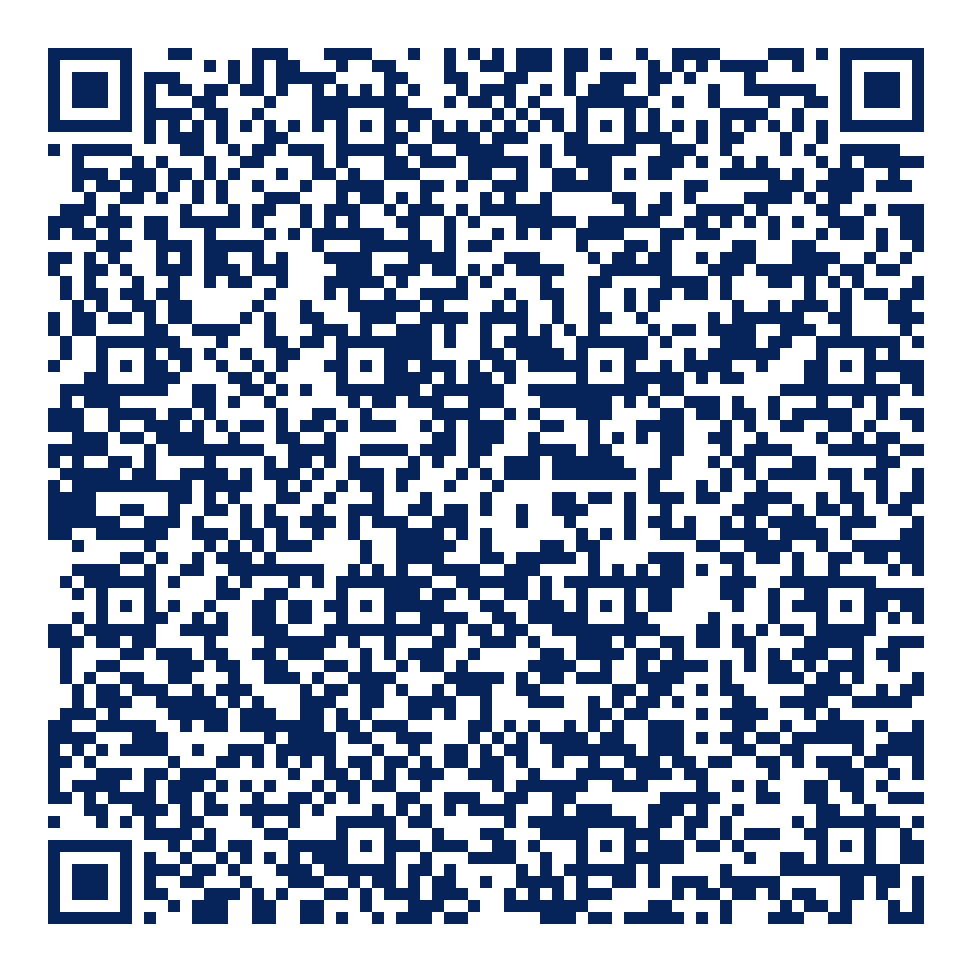
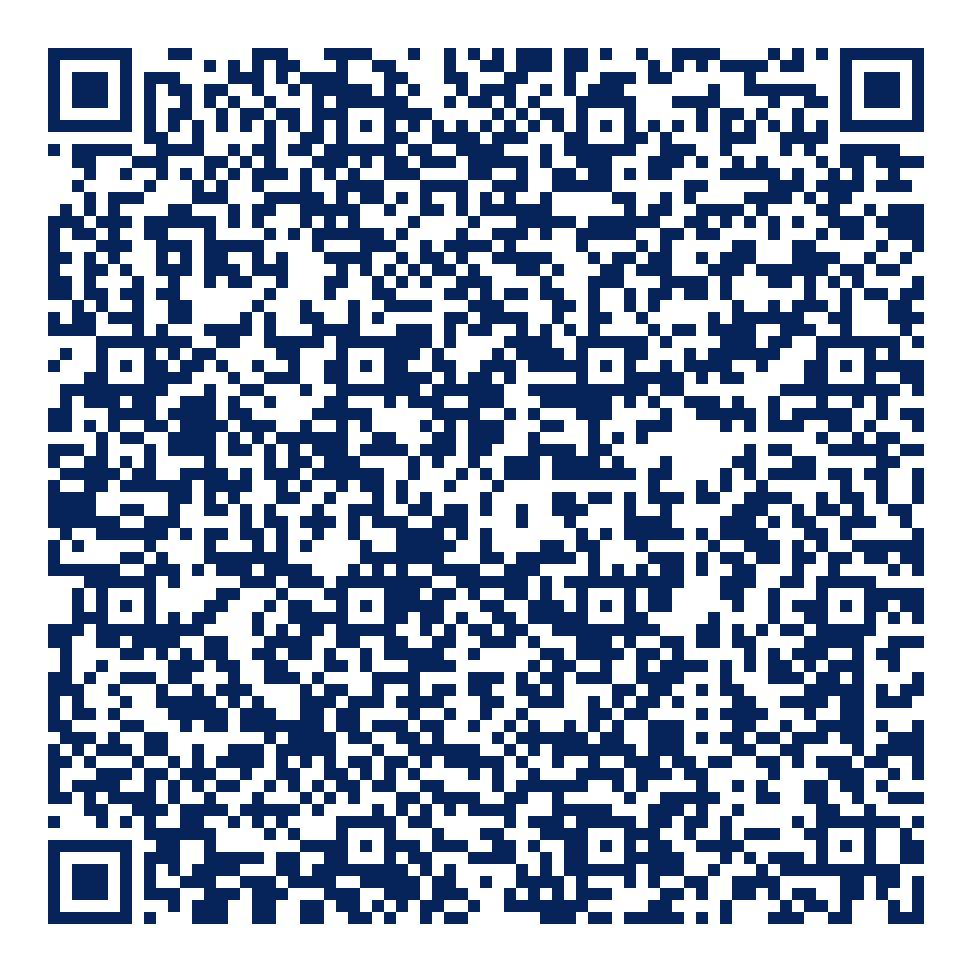
Move the business card location to Joplin, MO
Replace the card, contact file, and QR code with the Joplin versions.

diff --git a/index.html b/index.html
@@ -74,7 +74,7 @@ h1{font-size:28px;font-weight:800;letter-spacing:-.5px;color:var(--navy-dk)}
     <section class="id">
       <h1 itemprop="name">Nixon Brannan</h1>
       <div class="title" itemprop="jobTitle">Commercial Insurance Specialist</div>
-      <div class="org" itemprop="worksFor">Bull Insurance Agency · Lamar, MO</div>
+      <div class="org" itemprop="worksFor">Bull Insurance Agency · Joplin, MO</div>
     </section>
 
     <nav class="quick" aria-label="Quick actions">
@@ -83,7 +83,7 @@ h1{font-size:28px;font-weight:800;letter-spacing:-.5px;color:var(--navy-dk)}
       <a class="q" href="https://www.bullinsuranceagency.com" target="_blank" rel="noopener"><svg class="ic" viewBox="0 0 24 24" aria-hidden="true"><path d="M12 2a10 10 0 1 0 0 20 10 10 0 0 0 0-20zm6.9 6h-2.9a15.7 15.7 0 0 0-1.4-3.6A8 8 0 0 1 18.9 8zM12 4a14 14 0 0 1 1.9 4h-3.8A14 14 0 0 1 12 4zM4.3 14a8.2 8.2 0 0 1 0-4h3.4a16.5 16.5 0 0 0 0 4H4.3zm.8 2h2.9c.3 1.3.8 2.5 1.4 3.6A8 8 0 0 1 5.1 16zM8 8H5.1a8 8 0 0 1 4.3-3.6C8.8 5.5 8.3 6.7 8 8zm4 12a14 14 0 0 1-1.9-4h3.8A14 14 0 0 1 12 20zm2.3-6H9.7a14.7 14.7 0 0 1 0-4h4.6a14.7 14.7 0 0 1 0 4zm.3 5.6c.6-1.1 1.1-2.3 1.4-3.6h2.9a8 8 0 0 1-4.3 3.6zm1.7-5.6a16.5 16.5 0 0 0 0-4h3.4a8.2 8.2 0 0 1 0 4h-3.4z"/></svg>Website</a>
     </nav>
 
-    <a class="save" id="save" href="data:text/vcard;charset=utf-8,BEGIN%3AVCARD%0D%0AVERSION%3A3.0%0D%0AN%3ABrannan%3BNixon%3B%3B%3B%0D%0AFN%3ANixon%20Brannan%0D%0AORG%3ABull%20Insurance%20Agency%0D%0ATITLE%3ACommercial%20Insurance%20Specialist%0D%0ATEL%3BTYPE%3DWORK%2CVOICE%2CPREF%3A%2B1-417-382-7227%0D%0ATEL%3BTYPE%3DWORK%3A%2B1-417-682-2998%0D%0AEMAIL%3BTYPE%3DINTERNET%2CWORK%3Anixon%40bullinsuranceagency.com%0D%0AURL%3Ahttps%3A//www.bullinsuranceagency.com%0D%0AADR%3BTYPE%3DWORK%3A%3B%3B907%20Gulf%20St%3BLamar%3BMO%3B64759%3BUSA%0D%0AEND%3AVCARD%0D%0A" download="nixon-brannan.vcf"><svg class="ic" viewBox="0 0 24 24" aria-hidden="true"><path d="M15 12a4 4 0 1 0-4-4 4 4 0 0 0 4 4zm-9-2V7H4v3H1v2h3v3h2v-3h3v-2H6zm9 4c-2.7 0-8 1.3-8 4v2h16v-2c0-2.7-5.3-4-8-4z"/></svg>Save Contact</a>
+    <a class="save" id="save" href="data:text/vcard;charset=utf-8,BEGIN%3AVCARD%0D%0AVERSION%3A3.0%0D%0AN%3ABrannan%3BNixon%3B%3B%3B%0D%0AFN%3ANixon%20Brannan%0D%0AORG%3ABull%20Insurance%20Agency%0D%0ATITLE%3ACommercial%20Insurance%20Specialist%0D%0ATEL%3BTYPE%3DWORK%2CVOICE%2CPREF%3A%2B1-417-382-7227%0D%0ATEL%3BTYPE%3DWORK%3A%2B1-417-682-2998%0D%0AEMAIL%3BTYPE%3DINTERNET%2CWORK%3Anixon%40bullinsuranceagency.com%0D%0AURL%3Ahttps%3A//www.bullinsuranceagency.com%0D%0AADR%3BTYPE%3DWORK%3A%3B%3B%3BJoplin%3BMO%3B%3BUSA%0D%0AEND%3AVCARD%0D%0A" download="nixon-brannan.vcf"><svg class="ic" viewBox="0 0 24 24" aria-hidden="true"><path d="M15 12a4 4 0 1 0-4-4 4 4 0 0 0 4 4zm-9-2V7H4v3H1v2h3v3h2v-3h3v-2H6zm9 4c-2.7 0-8 1.3-8 4v2h16v-2c0-2.7-5.3-4-8-4z"/></svg>Save Contact</a>
 
     <section class="list" aria-label="Contact details">
       <a class="row" href="tel:+14173827227" >
@@ -106,15 +106,15 @@ h1{font-size:28px;font-weight:800;letter-spacing:-.5px;color:var(--navy-dk)}
       <span class="txt"><span class="lbl">Website</span><span class="val">bullinsuranceagency.com</span></span>
       <svg class="chev" viewBox="0 0 24 24" aria-hidden="true"><path d="M9.3 6.7a1 1 0 0 1 1.4 0l4.6 4.6a1 1 0 0 1 0 1.4l-4.6 4.6a1 1 0 1 1-1.4-1.4l3.9-3.9-3.9-3.9a1 1 0 0 1 0-1.4z"/></svg>
     </a>
-<a class="row" href="https://maps.google.com/?q=907+Gulf+St,+Lamar,+MO+64759" target="_blank" rel="noopener">
+<a class="row" href="https://maps.google.com/?q=Joplin,+MO" target="_blank" rel="noopener">
       <span class="badge"><svg class="ic" viewBox="0 0 24 24" aria-hidden="true"><path d="M12 2a7 7 0 0 1 7 7c0 5.2-7 13-7 13S5 14.2 5 9a7 7 0 0 1 7-7zm0 4.5a2.5 2.5 0 1 0 0 5 2.5 2.5 0 0 0 0-5z"/></svg></span>
-      <span class="txt"><span class="lbl">Office address</span><span class="val">907 Gulf St, Lamar, MO 64759</span></span>
+      <span class="txt"><span class="lbl">Location</span><span class="val">Joplin, MO</span></span>
       <svg class="chev" viewBox="0 0 24 24" aria-hidden="true"><path d="M9.3 6.7a1 1 0 0 1 1.4 0l4.6 4.6a1 1 0 0 1 0 1.4l-4.6 4.6a1 1 0 1 1-1.4-1.4l3.9-3.9-3.9-3.9a1 1 0 0 1 0-1.4z"/></svg>
     </a>
     </section>
 
     <div class="qr">
[2 lines of base64/hex data omitted]
       <div><b>Scan to save my contact</b><p>Point your phone camera here to add me to your contacts instantly.</p></div>
     </div>
   </article>
@@ -125,7 +125,7 @@ h1{font-size:28px;font-weight:800;letter-spacing:-.5px;color:var(--navy-dk)}
 (function(){
   var a=document.getElementById('save');
   try{
-    var v="BEGIN:VCARD\r\nVERSION:3.0\r\nN:Brannan;Nixon;;;\r\nFN:Nixon Brannan\r\nORG:Bull Insurance Agency\r\nTITLE:Commercial Insurance Specialist\r\nTEL;TYPE=WORK,VOICE,PREF:+1-417-382-7227\r\nTEL;TYPE=WORK:+1-417-682-2998\r\nEMAIL;TYPE=INTERNET,WORK:nixon@bullinsuranceagency.com\r\nURL:https://www.bullinsuranceagency.com\r\nADR;TYPE=WORK:;;907 Gulf St;Lamar;MO;64759;USA\r\nEND:VCARD\r\n";
+    var v="BEGIN:VCARD\r\nVERSION:3.0\r\nN:Brannan;Nixon;;;\r\nFN:Nixon Brannan\r\nORG:Bull Insurance Agency\r\nTITLE:Commercial Insurance Specialist\r\nTEL;TYPE=WORK,VOICE,PREF:+1-417-382-7227\r\nTEL;TYPE=WORK:+1-417-682-2998\r\nEMAIL;TYPE=INTERNET,WORK:nixon@bullinsuranceagency.com\r\nURL:https://www.bullinsuranceagency.com\r\nADR;TYPE=WORK:;;;Joplin;MO;;USA\r\nEND:VCARD\r\n";
     var url=URL.createObjectURL(new Blob([v],{type:'text/vcard;charset=utf-8'}));
     a.addEventListener('click',function(e){
       var ios=/iP(hone|ad|od)/.test(navigator.userAgent);
